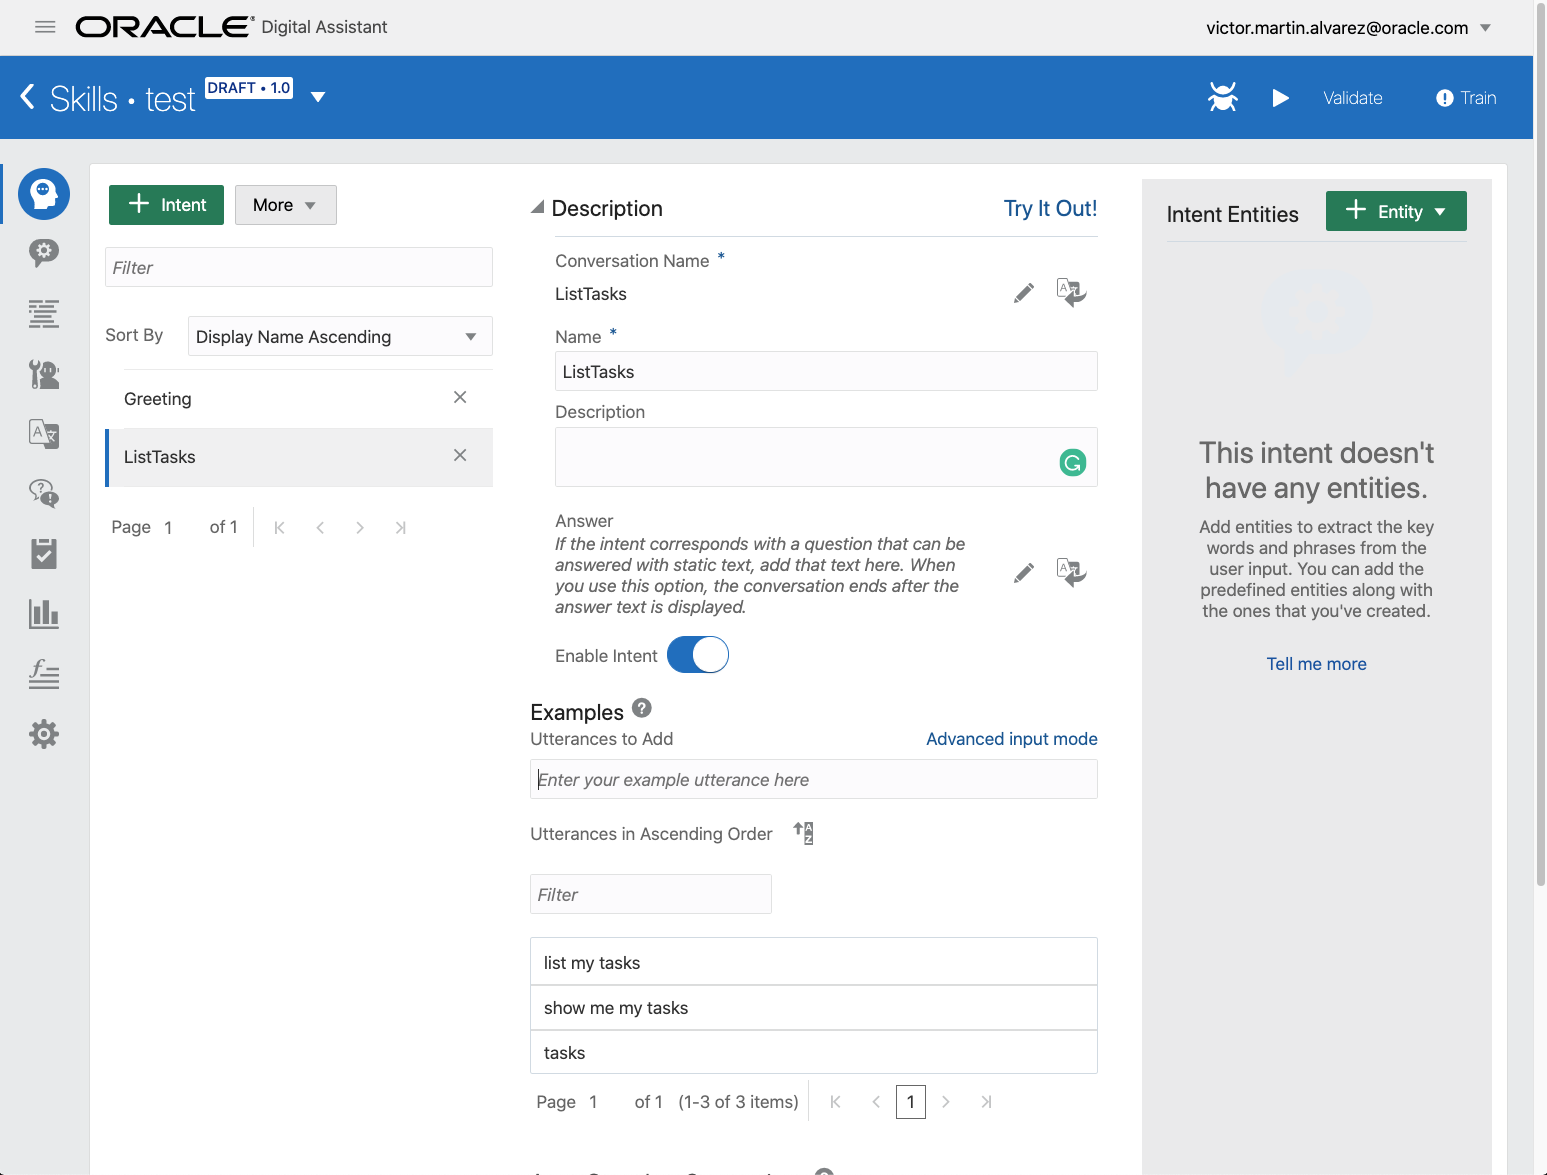
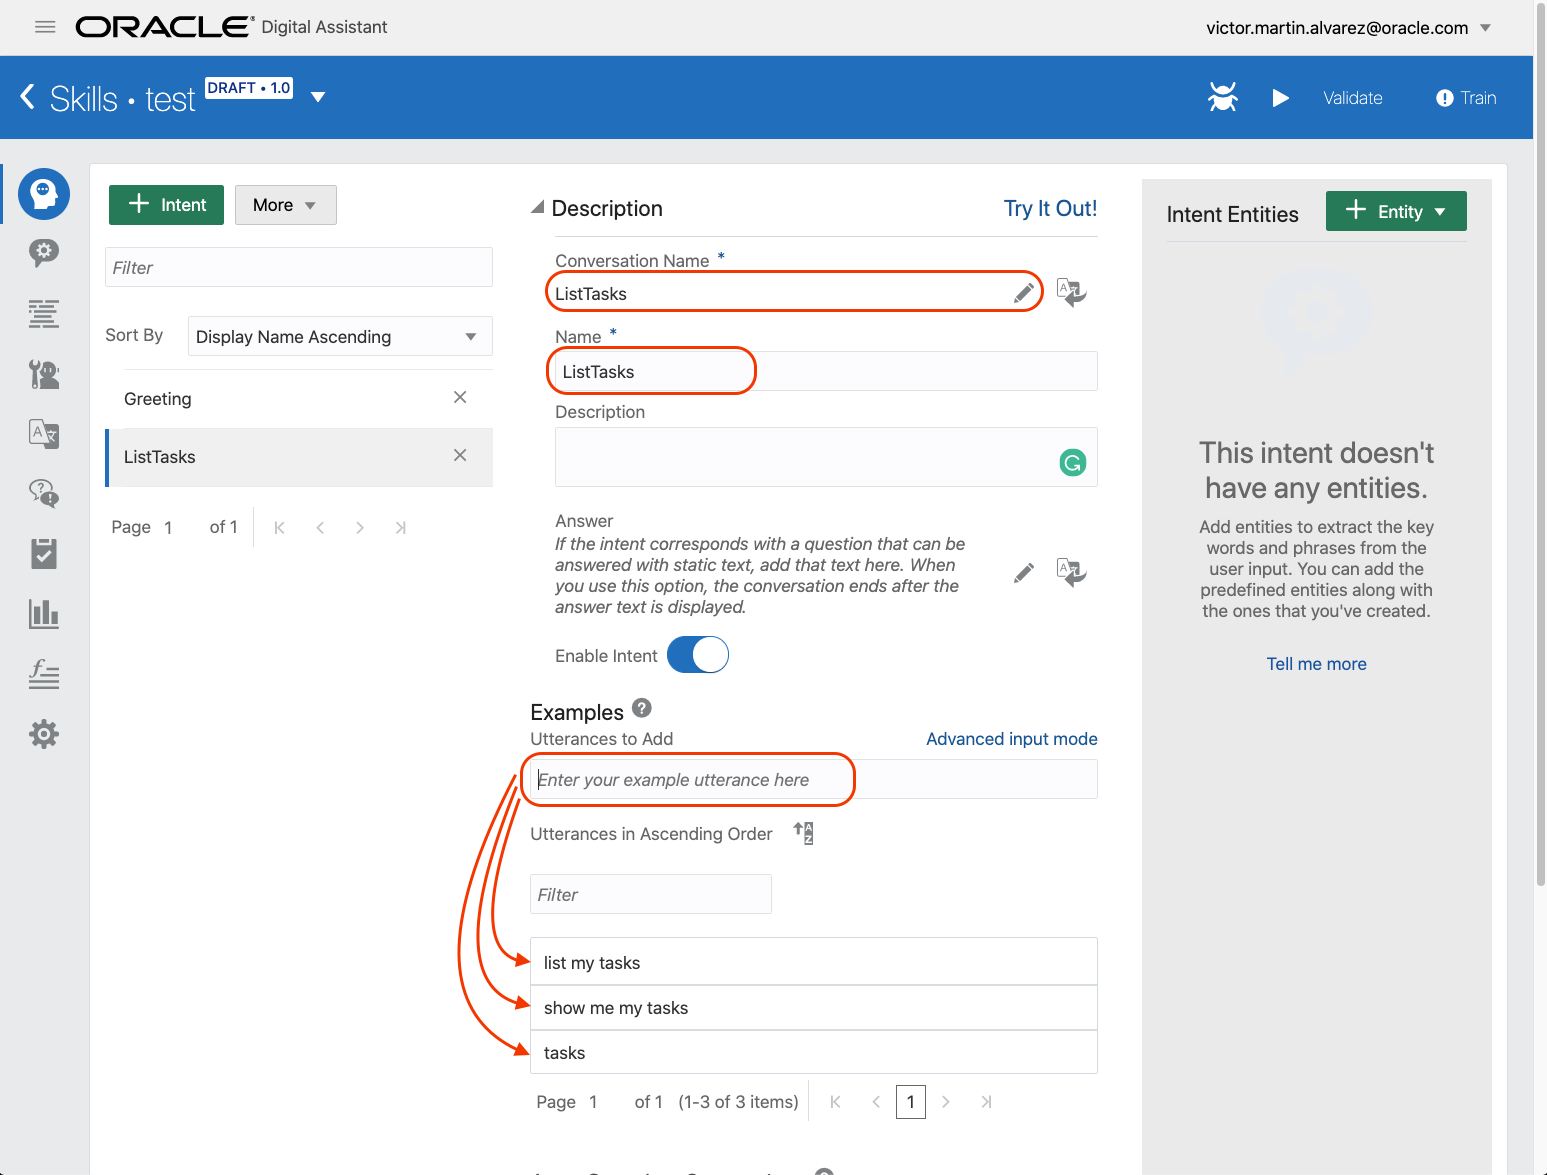
Fix red marks on pictures

Changed region(s): [[0.2793, 0.6434, 0.3413, 0.8579], [0.4654, 0.3064, 0.4964, 0.337], [0.3413, 0.3064, 0.3723, 0.337]]

diff --git a/lab5/README.md b/lab5/README.md
@@ -176,7 +176,7 @@ states:
       return: unresolved
 ```
 
-**XXX** Explain every part of the Flows definition.
+<!-- TODO Explain every part of the Flows definition.-->
 
 It should look like:
 
